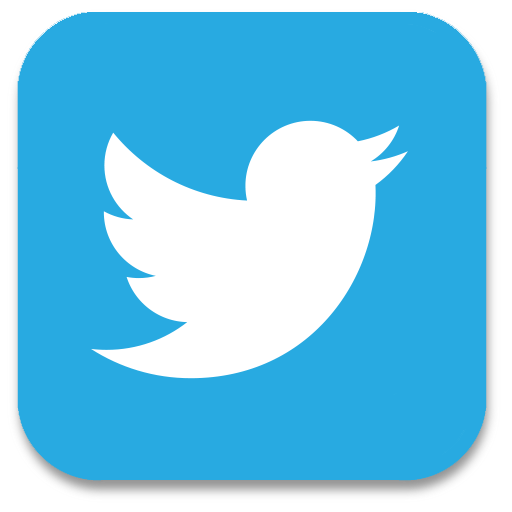
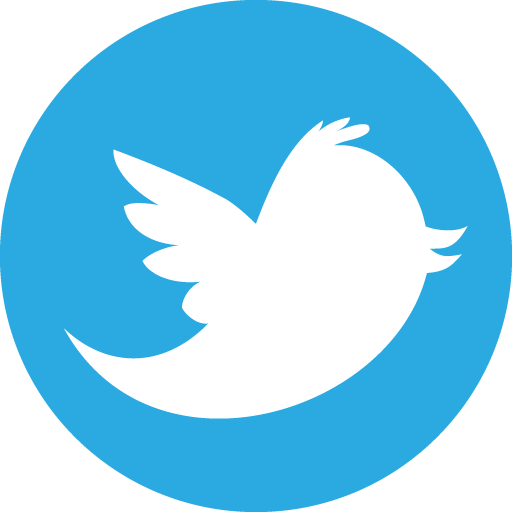
+++

Changed region(s): [[0.0, 0.0, 1.0, 1.0], [0.125, 0.2188, 0.9062, 0.8438], [0.2812, 0.3125, 0.4062, 0.375]]

diff --git a/resources/views/emails/subscribe.blade.php b/resources/views/emails/subscribe.blade.php
@@ -687,9 +687,21 @@
 						<div class="col-md-12" style="padding:20px;">
 							<ul class="social-network social-circle">
 								<!----li><a href="#" class="icoRss" title="Rss"><i class="fa fa-rss"></i></a></li-->
-								<li><a href="https://www.facebook.com/aswiftconnect/" target="_blank" class="icoFacebook" title="Facebook"><i class="fa fa-facebook"></i></a></li>
-								<li><a href="https://twitter.com/ASwiftConnect1" target="_blank" class="icoTwitter" title="Twitter"><i class="fa fa-twitter"></i></a></li>
-								<li><a href="https://www.instagram.com/aswiftconnect/" target="_blank" class="icoInstagram" title="Instagram"><i class="fa fa-instagram"></i></a></li>
+								<li><a href="https://www.facebook.com/aswiftconnect/" target="_blank" class="icoFacebook" title="Facebook">
+								<img
+                                                                src="{{ asset('assets/frontend/images/facebook.png')}}"
+                                                                alt="Facebook Logo ASwiftConnect"
+                                                                style="width: 40px !important; max-width: 50px; height: auto; display: block;">
+							    </a></li>
+								<li><a href="https://twitter.com/ASwiftConnect1" target="_blank" class="icoTwitter" title="Twitter">
+								 <img src="{{ asset('assets/frontend/images/twitter.png')}}"
+                                                                alt=" Twitter logo ASwiftconnect"
+                                                                style="width: 30px; max-width: 40px; height: auto; display: block;"></a></li>
+								<li><a href="https://www.instagram.com/aswiftconnect/" target="_blank" class="icoInstagram" title="Instagram">
+								<img src="{{ asset('assets/frontend/images/instagram.png')}}"
+                                                                alt="Instagram Logo ASwiftConnect"
+                                                                style="width: 50px !important; max-width: 40px; height: auto; display: block;">
+							     </a></li>
 								<!----li><a href="#" class="icoGoogle" title="Google +"><i class="fa fa-google-plus"></i></a>
 								</li>
 								<li><a href="#" class="icoLinkedin" title="Linkedin"><i class="fa fa-linkedin"></i></a></li-->
